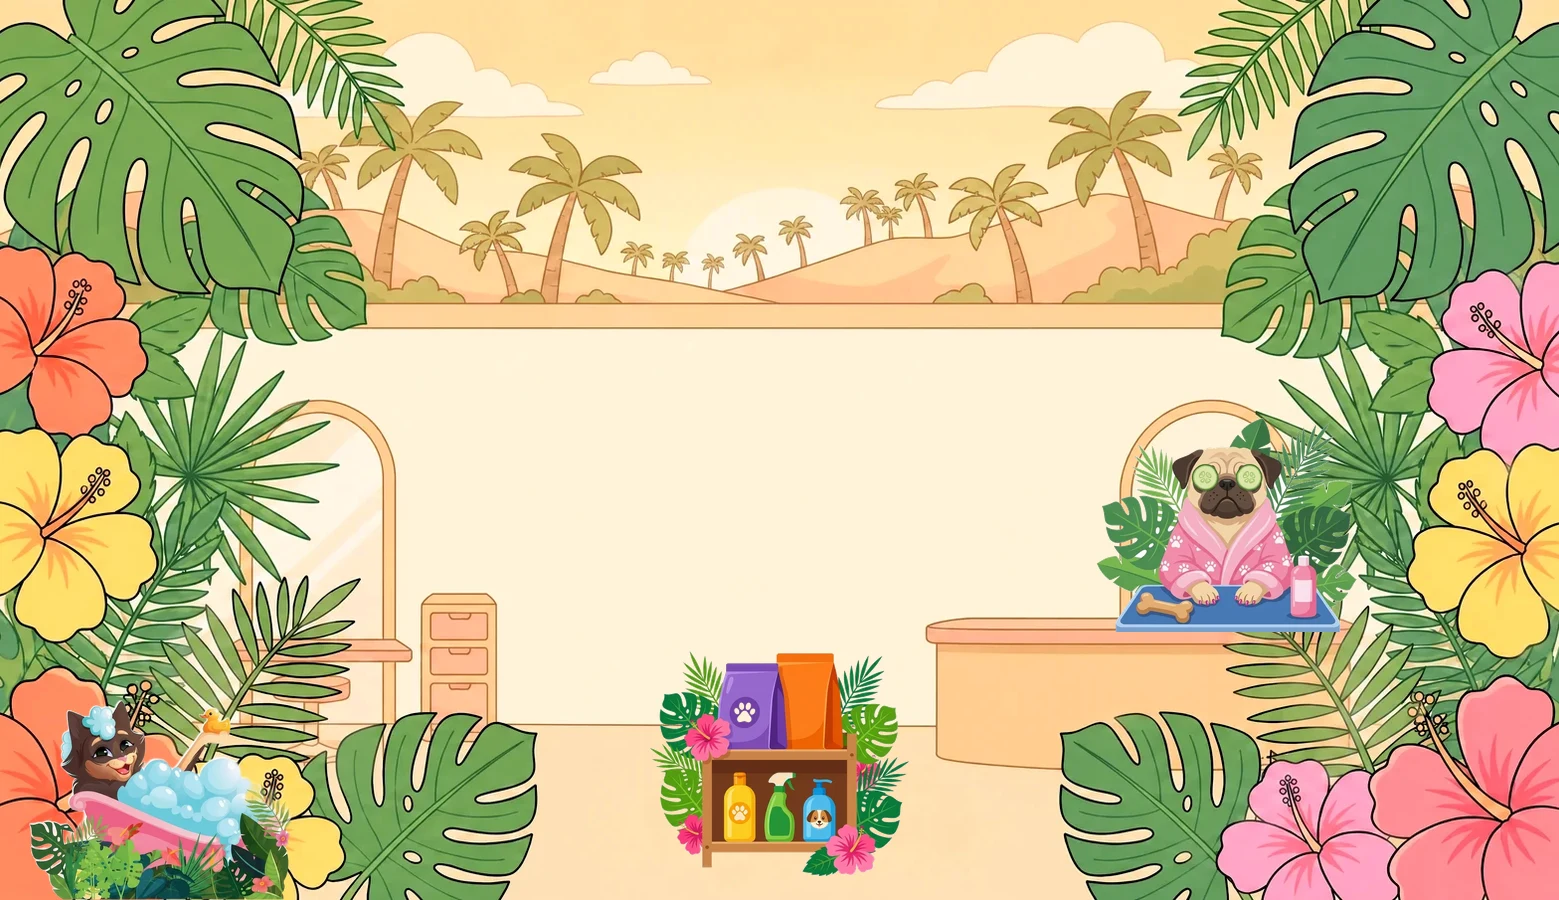
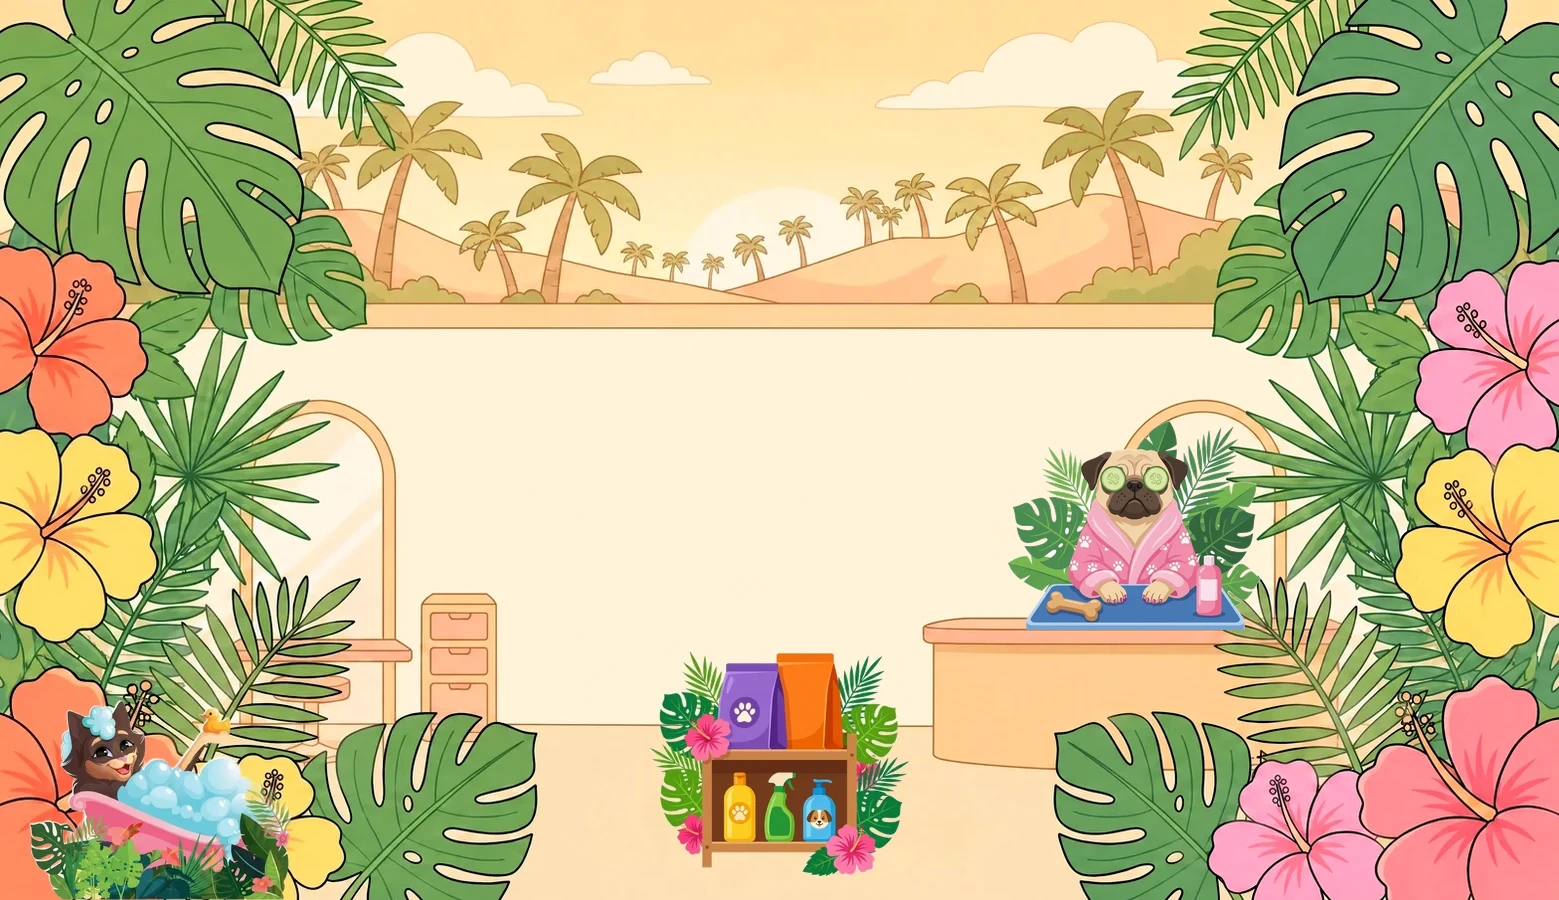
style: center product shelf and nudge pug left on hero composites
Rebuilt the tablet/mobile hero composites from the original layered
assets (bg + cat/dog/shelf cutouts) instead of the flattened images,
adding the missing product shelf between the cat and dog and shifting
the pug slightly left on all breakpoints for better balance.

Changed region(s): [[0.585, 0.0, 1.0, 1.0], [0.585, 0.6844, 0.6158, 0.84], [0.6774, 0.0311, 0.7081, 0.0622]]

diff --git a/css/style.css b/css/style.css
@@ -268,7 +268,7 @@ a  { color: inherit; }
    bouton) est la seule chose qui reste en HTML, positionnee par-dessus via
    padding-top en pixels fixes calibres sur l'image de ce palier. */
 .hero {
-  background: url('../images/hero-desktop.webp?v=2') top center / 100% 100% no-repeat;
+  background: url('../images/hero-desktop.webp?v=3') top center / 100% 100% no-repeat;
   background-color: #fff3d9;
   aspect-ratio: 1559 / 900;
   position: relative;
@@ -1119,13 +1119,13 @@ a  { color: inherit; }
 
 /* Hero — image composite dediee (897x675) : fond + chat + carlin deja fusionnes */
 @media (min-width: 859px) and (max-width: 1024px) {
-  .hero { background-image: url('../images/hero-tablet-897.webp?v=2'); aspect-ratio: 897 / 675; }
+  .hero { background-image: url('../images/hero-tablet-897.webp?v=3'); aspect-ratio: 897 / 675; }
   .hero__content { padding-top: 39.58%; }
 }
 
 /* Hero — image composite dediee (820x648) */
 @media (min-width: 768px) and (max-width: 858px) {
-  .hero { background-image: url('../images/hero-tablet-820.webp?v=2'); aspect-ratio: 820 / 648; }
+  .hero { background-image: url('../images/hero-tablet-820.webp?v=3'); aspect-ratio: 820 / 648; }
   .hero__content { padding-top: 39.88%; }
 }
 
@@ -1224,13 +1224,13 @@ a  { color: inherit; }
 
 /* Hero — image composite dediee (430x545) : fond + chat + carlin, pas de produits */
 @media (min-width: 421px) and (max-width: 767px) {
-  .hero { background-image: url('../images/hero-mobile-430.webp?v=2'); aspect-ratio: 430 / 545; }
+  .hero { background-image: url('../images/hero-mobile-430.webp?v=3'); aspect-ratio: 430 / 545; }
   .hero__content { padding-top: 37.67%; }
 }
 
 /* Hero — image composite dediee (393x520) */
 @media (max-width: 420px) {
-  .hero { background-image: url('../images/hero-mobile-393.webp?v=2'); aspect-ratio: 393 / 520; }
+  .hero { background-image: url('../images/hero-mobile-393.webp?v=3'); aspect-ratio: 393 / 520; }
   .hero__content { padding-top: 37.66%; }
 }
 

diff --git a/index.html b/index.html
@@ -72,11 +72,11 @@
 
   <title>La Puce à l'Oreille — Toilettage canin &amp; félin · 56390</title>
   <link rel="icon" type="image/svg+xml" href="images/favicon.svg">
-  <link rel="preload" href="images/hero-desktop.webp?v=2" as="image" type="image/webp" media="(min-width: 1025px)">
-  <link rel="preload" href="images/hero-tablet-897.webp?v=2" as="image" type="image/webp" media="(min-width: 859px) and (max-width: 1024px)">
-  <link rel="preload" href="images/hero-tablet-820.webp?v=2" as="image" type="image/webp" media="(min-width: 768px) and (max-width: 858px)">
-  <link rel="preload" href="images/hero-mobile-430.webp?v=2" as="image" type="image/webp" media="(min-width: 421px) and (max-width: 767px)">
-  <link rel="preload" href="images/hero-mobile-393.webp?v=2" as="image" type="image/webp" media="(max-width: 420px)">
+  <link rel="preload" href="images/hero-desktop.webp?v=3" as="image" type="image/webp" media="(min-width: 1025px)">
+  <link rel="preload" href="images/hero-tablet-897.webp?v=3" as="image" type="image/webp" media="(min-width: 859px) and (max-width: 1024px)">
+  <link rel="preload" href="images/hero-tablet-820.webp?v=3" as="image" type="image/webp" media="(min-width: 768px) and (max-width: 858px)">
+  <link rel="preload" href="images/hero-mobile-430.webp?v=3" as="image" type="image/webp" media="(min-width: 421px) and (max-width: 767px)">
+  <link rel="preload" href="images/hero-mobile-393.webp?v=3" as="image" type="image/webp" media="(max-width: 420px)">
   <link rel="stylesheet" href="css/style.css?v=20260725a">
 </head>
 <body>
